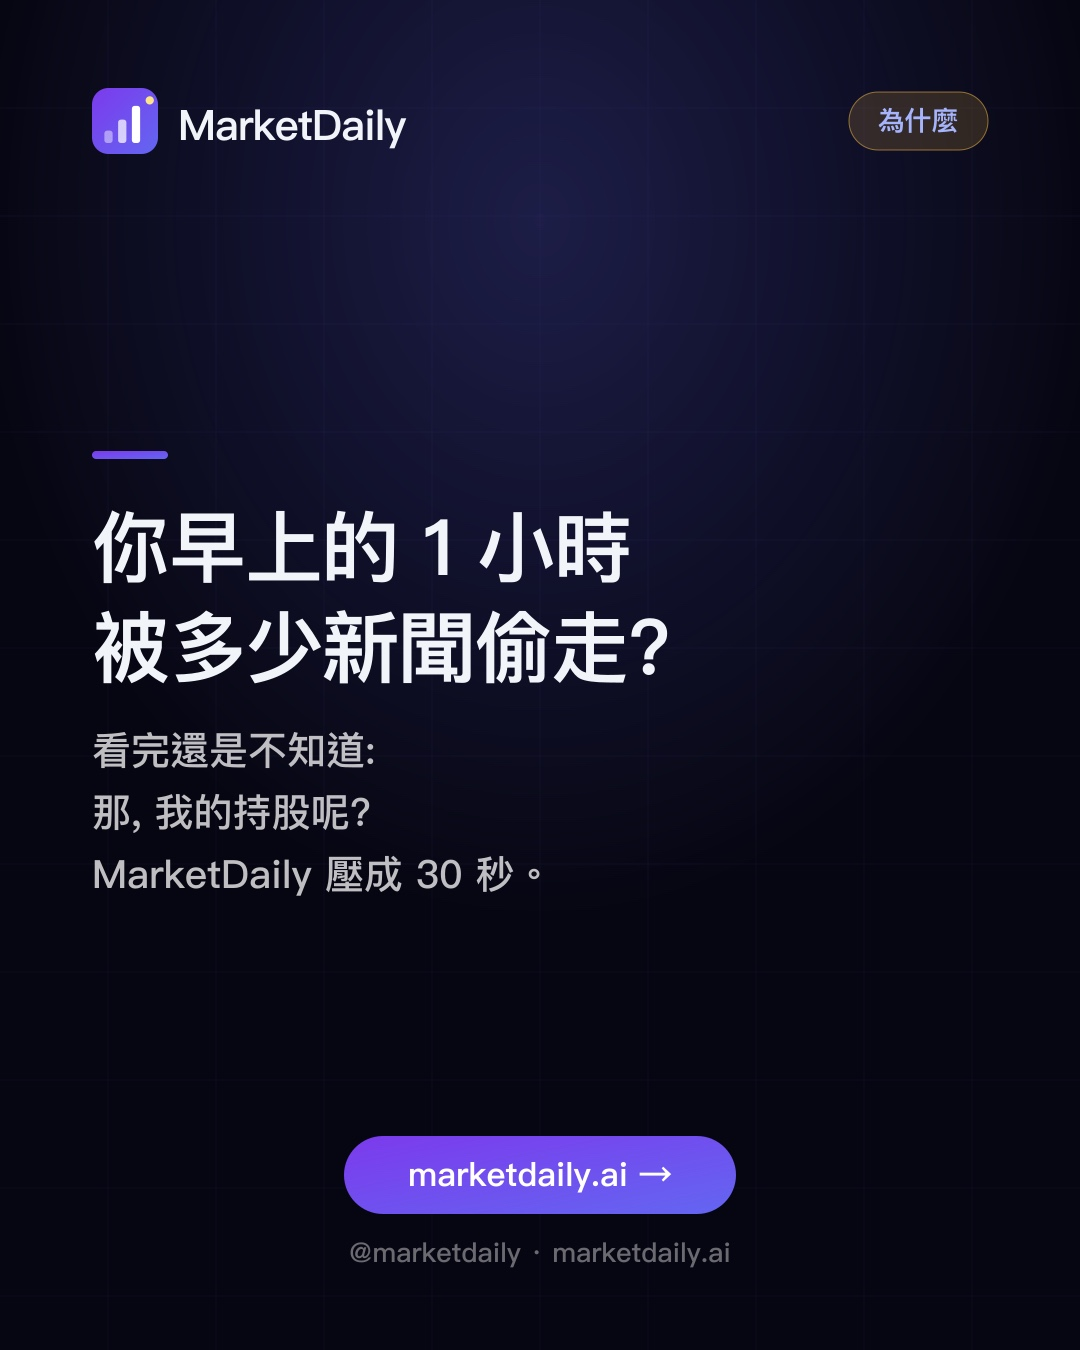
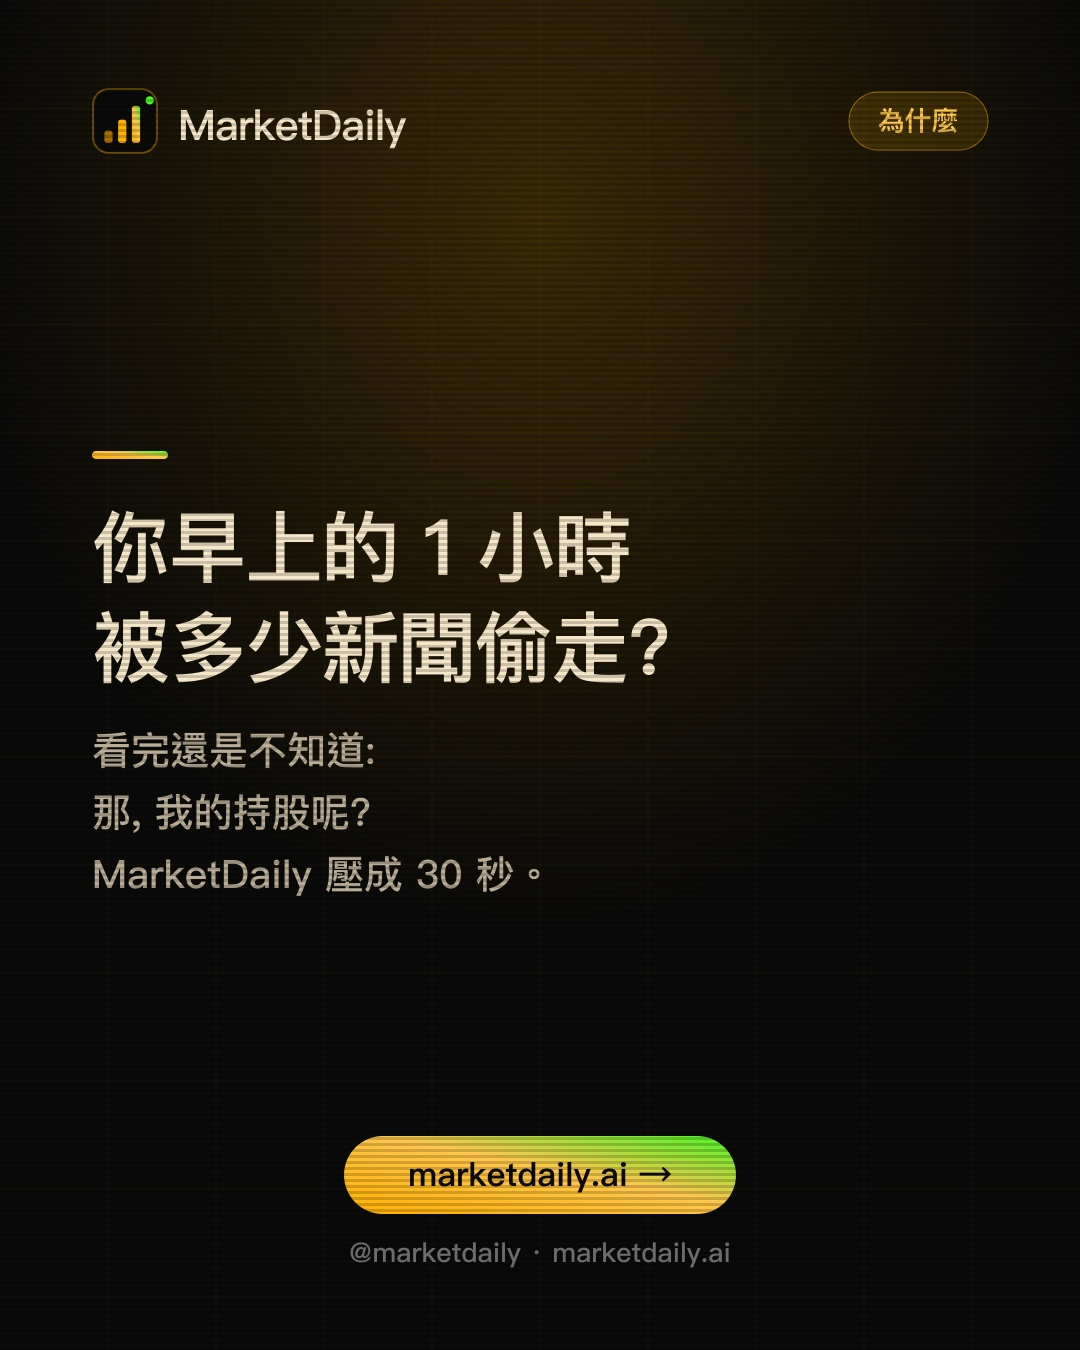
feat(marketing): 社群圖卡換磷光終端機品牌 + 雙時段文案(台股07:00/美股20:00),captions 同步

diff --git a/marketing/social_cards.py b/marketing/social_cards.py
@@ -8,12 +8,12 @@ import subprocess
 import tempfile
 from pathlib import Path
 
-BG = "#060611"
-INK = "#f1f5f9"
-BODY = "rgba(255,255,255,0.74)"
-INDIGO = "#6366f1"
-INDIGO_LIGHT = "#a5b4fc"
-GOLD = "#fde68a"
+BG = "#0A0A08"
+INK = "#F5E6C8"
+BODY = "rgba(245,230,200,0.74)"
+INDIGO = "#FFB000"
+INDIGO_LIGHT = "#FFC74D"
+GOLD = "#4AF626"
 FONT = "Inter, -apple-system, BlinkMacSystemFont, 'PingFang TC', 'Segoe UI', sans-serif"
 
 W, H = 1080, 1350  # IG 4:5，社群觸及最佳比例
@@ -51,11 +51,12 @@ def _icon(x, y, size):
     s = size / 48.0
     return (
         f'<g transform="translate({x},{y}) scale({s:.4f})">'
-        '<rect width="48" height="48" rx="12" fill="url(#mdg)"/>'
-        '<rect x="9" y="31" width="6" height="9" rx="2" fill="#fff" fill-opacity="0.45"/>'
-        '<rect x="19" y="23" width="6" height="17" rx="2" fill="#fff" fill-opacity="0.72"/>'
-        '<rect x="29" y="13" width="6" height="27" rx="2" fill="#fff"/>'
-        '<circle cx="42" cy="9" r="3" fill="#fde68a"/></g>'
+        '<rect width="48" height="48" rx="12" fill="#0A0A08"/>'
+        '<rect x="0.75" y="0.75" width="46.5" height="46.5" rx="11.5" fill="none" stroke="#FFB000" stroke-opacity="0.4" stroke-width="1.5"/>'
+        '<rect x="9" y="31" width="6" height="9" rx="2" fill="#A66E00"/>'
+        '<rect x="19" y="23" width="6" height="17" rx="2" fill="#FFB000"/>'
+        '<rect x="29" y="13" width="6" height="27" rx="2" fill="url(#mdg)"/>'
+        '<circle cx="42" cy="9" r="3" fill="#4AF626"/></g>'
     )
 
 
@@ -81,13 +82,15 @@ def _card_inner(spec, w, h):
 
     defs = (
         '<defs>'
-        '<linearGradient id="mdg" x1="0" y1="0" x2="1" y2="1">'
-        '<stop offset="0%" stop-color="#7c3aed"/><stop offset="100%" stop-color="#6366f1"/>'
+        '<linearGradient id="mdg" x1="0" y1="1" x2="1" y2="0">'
+        '<stop offset="0%" stop-color="#FFB000"/><stop offset="55%" stop-color="#FFC74D"/><stop offset="100%" stop-color="#4AF626"/>'
         '</linearGradient>'
         '<radialGradient id="glow" cx="0.5" cy="0.16" r="0.85">'
-        '<stop offset="0%" stop-color="#6366f1" stop-opacity="0.24"/>'
-        '<stop offset="62%" stop-color="#6366f1" stop-opacity="0"/>'
+        '<stop offset="0%" stop-color="#FFB000" stop-opacity="0.20"/>'
+        '<stop offset="62%" stop-color="#FFB000" stop-opacity="0"/>'
         '</radialGradient>'
+        '<pattern id="scan" width="6" height="6" patternUnits="userSpaceOnUse">'
+        '<rect y="3" width="6" height="3" fill="#000" fill-opacity="0.18"/></pattern>'
         '</defs>'
     )
 
@@ -100,7 +103,7 @@ def _card_inner(spec, w, h):
         grid.append(f'<line x1="{gx}" y1="0" x2="{gx}" y2="{h}"/>')
     for gy in range(step, h, step):
         grid.append(f'<line x1="0" y1="{gy}" x2="{w}" y2="{gy}"/>')
-    p.append(f'<g stroke="#6366f1" stroke-opacity="0.05" stroke-width="1">{"".join(grid)}</g>')
+    p.append(f'<g stroke="#FFB000" stroke-opacity="0.05" stroke-width="1">{"".join(grid)}</g>')
 
     # 頂部品牌列
     p.append(_icon(pad, 88, 66))
@@ -150,8 +153,11 @@ def _card_inner(spec, w, h):
         p.append(f'<rect x="{cx:.0f}" y="{cy}" width="{ctw:.0f}" height="78" rx="39" fill="url(#mdg)"/>')
         p.append(
             f'<text x="{w / 2:.0f}" y="{cy + 50}" text-anchor="middle" font-family="{FONT}" '
-            f'font-size="33" font-weight="700" fill="#fff">{_esc(cta)}</text>'
+            f'font-size="33" font-weight="700" fill="#0A0A08">{_esc(cta)}</text>'
         )
+
+    # CRT 掃描線
+    p.append(f'<rect width="{w}" height="{h}" fill="url(#scan)"/>')
 
     # 頁尾
     p.append(

diff --git a/marketing/make_v2_cards.py b/marketing/make_v2_cards.py
@@ -8,11 +8,11 @@ from pathlib import Path
 
 from social_cards import make_card
 
-VIOLET = "#a855f7"
-SKY = "#38bdf8"
-EMERALD = "#10b981"
-GOLD = "#f5b942"
-ROSE = "#fb7185"
+VIOLET = "#4AF626"
+SKY = "#FFC74D"
+EMERALD = "#4AF626"
+GOLD = "#FFB000"
+ROSE = "#FF8A3D"
 
 OUT = Path(__file__).parent / "assets" / "posts" / "v2"
 
@@ -21,7 +21,7 @@ CARDS = [
         "file": "explainer_v01_30sec",
         "tag": "30 秒",
         "headline": "30 秒讀完\n你的財經早報",
-        "body": "美股 + 台股 · AI 寫成中文\n7AM 寄到你的 inbox",
+        "body": "美股 + 台股 · AI 寫成中文\n台股 07:00 · 美股 20:00 到你 inbox",
         "cta": "marketdaily.ai →",
     },
     {
@@ -108,7 +108,7 @@ CARDS = [
         "file": "vs_v02_vs_chatgpt",
         "tag": "vs ChatGPT",
         "accent": VIOLET,
-        "headline": "你不用問\n它自己 7AM 來",
+        "headline": "你不用問\n它自己送上門",
         "body": "ChatGPT 你要去問\n它不知道你持有什麼\nMarketDaily 知道 · 主動寄",
         "cta": "marketdaily.ai →",
     },
@@ -116,8 +116,8 @@ CARDS = [
         "file": "habit_v01_weekly",
         "tag": "節奏",
         "accent": GOLD,
-        "headline": "週一到週六\n早上 7:00\n週日休息",
-        "body": "盤前讀完\n開盤前你已經知道故事\n週末不打擾",
+        "headline": "台股 07:00\n美股 20:00\n週日休息",
+        "body": "週一到週六 · 盤前讀完\n開盤前你已經知道故事\n週末不打擾",
         "cta": "marketdaily.ai →",
     },
     {
